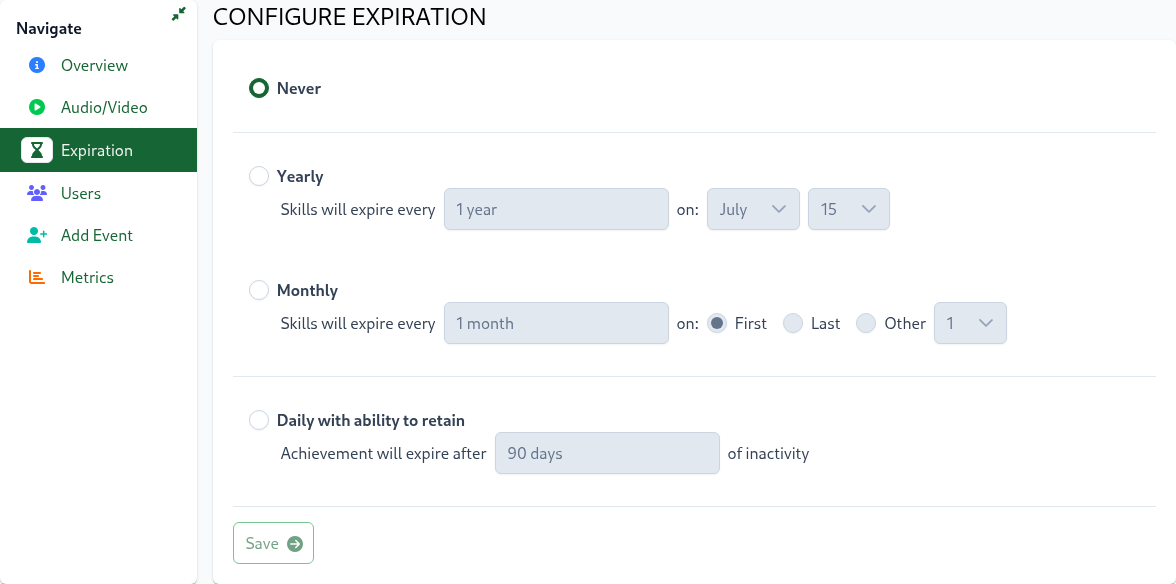
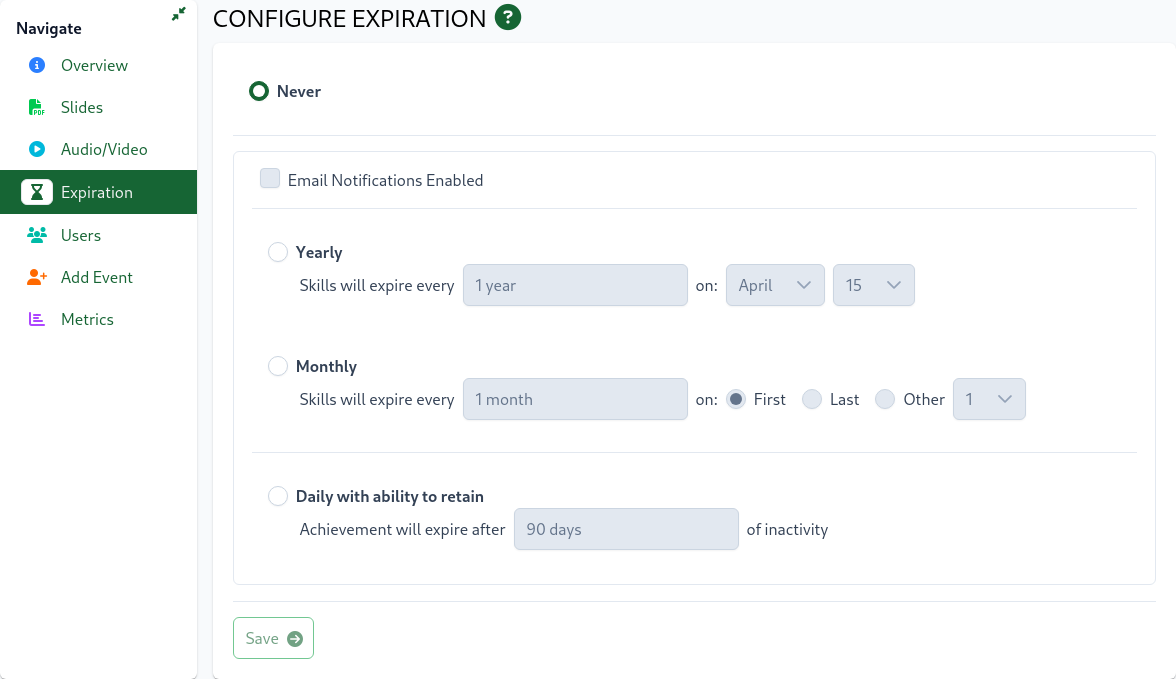
Merge pull request #342 from NationalSecurityAgency/t#341/skill_expiration_notifications
#341 - added skill expiration email notification docs

Pull request: #341 - added skill expiration email notification docs

diff --git a/cypress/e2e/admin.cy.js b/cypress/e2e/admin.cy.js
@@ -429,6 +429,7 @@ context('Admin: Generate Screenshots', () => {
     })
 
     it('Gen Expiration Settings page', () => {
+        cy.intercept('/public/isFeatureSupported?feature=emailservice', 'true');
         cy.visit('/administrator/projects/movies/subjects/Action/skills/TheMatrix/config-expiration')
         cy.snap('page-expiration-config', '[data-cy="nav"]')
     })

diff --git a/docs/dashboard/user-guide/skills.md b/docs/dashboard/user-guide/skills.md
@@ -141,10 +141,29 @@ The default option for all skills is set to `Never`, so that the skill will neve
 
 The `Yearly` and `Monthly` options allow for the skill to be configured to expire on a recurring basis.  For example, you can configure a skill so that *all* user's points and achievements earned for this skill will be removed annually on December 31st.  
 
-The `Daily with the ability to retain` option allows for the skill to be configured to expire based on usage. This option requires the user to continue to exercise the skill after achieving it in order to avoid losing their points. Once a user achieves the skill, 
-the user must perform the skill at least once within the number of days configured.  After performing the skill, the "timer" will be reset and the user will once again be required to perform the skill within the configured number of days to avoid losing the points they have earned since achieving this skill.
+The `Daily with the ability to retain` option configures skills to expire based on user activity. After achieving this skill, users must continue performing it within the configured number of days to maintain their points. Each time the skill is performed, the timer resets, requiring users to repeat the skill within the specified timeframe to keep their earned points."
+
+**Notifications**
 
 Skills that are configured to expire will have warnings visualized in the Skills Display, letting the user know when the skill will is set to expire.
+
+Additionally, you can enable email notifications to alert users when their skills are about to expire or have expired. The `Email Notifications Enabled` checkbox allows you to:
+
+- Send automatic email notifications to users when their skills are approaching expiration
+- Provide users with advance warning so they can take action to maintain their skill achievements
+- Ensure users stay informed about the status of their expiring skills
+
+When enabled, users will receive different types of email notifications based on the expiration configuration:
+
+For skills configured with `Monthly` or `Yearly` expiration, users receive notifications **after** their achievements have expired. These notifications inform users that their skill achievements have been removed and provide information about the next scheduled expiration date.
+
+For skills configured with `Daily with ability to retain`, users receive **warning notifications** before their achievements expire. These notifications:
+- Are sent when a user's achievement is approaching expiration
+- Include the number of days remaining until expiration
+- Provide a retention deadline so users can take action to maintain their achievements
+- Are only sent once per expiration cycle to avoid notification fatigue
+
+This differentiated approach ensures users receive timely and relevant notifications based on their skill expiration configuration.
 
 ### Expiration History
 